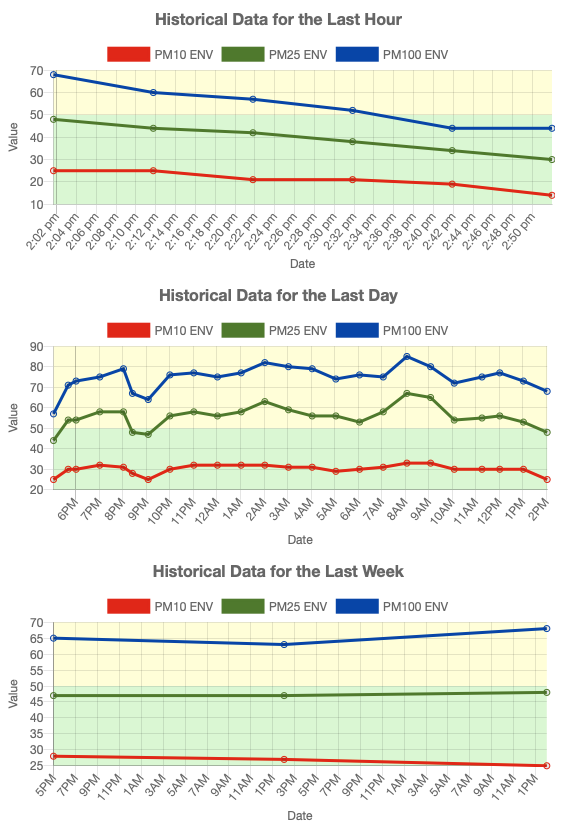
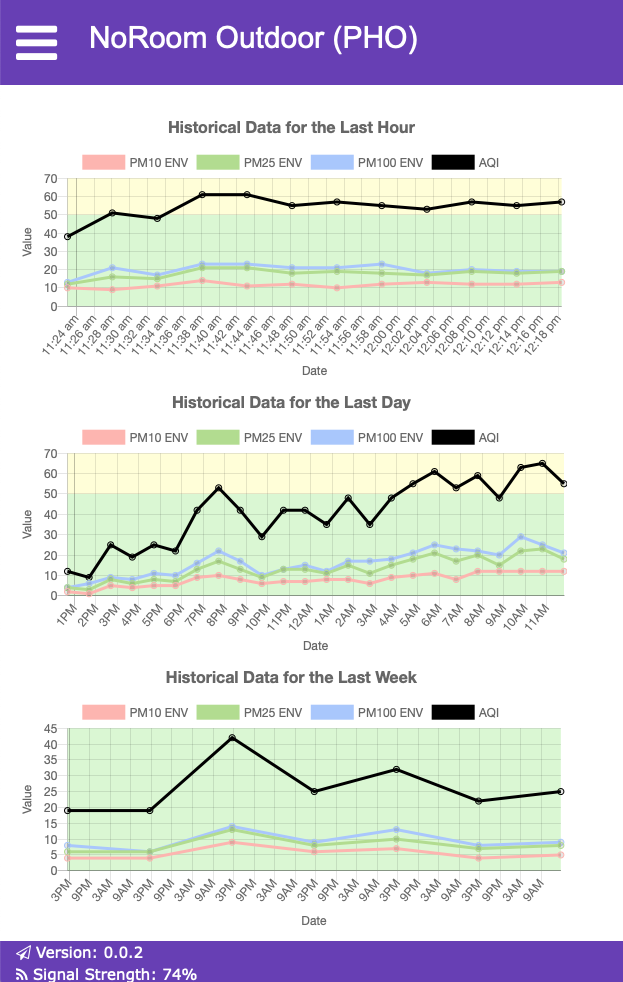
Weekly samples at 12hr intervals. Fix typos. Update Docs.

diff --git a/AQIReader.cpp b/AQIReader.cpp
@@ -145,8 +145,8 @@ uint16_t AQIReader::sizeOfRange(HistoryRange r) {
   switch (r) {
     case Range_1Hour: return readings_5min.size();
     case Range_1Day: return readings_1hr.size();
-    case Range_1Week: return readings_1day.size();
-    case Range_Combined: return readings_5min.size() + readings_1hr.size() + readings_1day.size();
+    case Range_1Week: return readings_12hr.size();
+    case Range_Combined: return readings_5min.size() + readings_1hr.size() + readings_12hr.size();
   }
   return 0; // Assert(CantHappen)
 }
@@ -155,7 +155,7 @@ AQIReadings AQIReader::getFromRange(HistoryRange r, uint16_t index) {
   switch (r) {
     case Range_1Hour: return readings_5min[index];
     case Range_1Day: return readings_1hr[index];
-    case Range_1Week: return readings_1day[index];
+    case Range_1Week: return readings_12hr[index];
     case Range_Combined:
       if (index < readings_5min.size()) return readings_5min[index];
       index -= readings_5min.size();
@@ -163,7 +163,7 @@ AQIReadings AQIReader::getFromRange(HistoryRange r, uint16_t index) {
       index -= readings_1hr.size();
       // Fall out...
   }
-  return readings_1day[index];
+  return readings_12hr[index];
 }
 
 void AQIReader::enterState(State newState) {
@@ -197,8 +197,8 @@ void AQIReader::updateHistoricalData(AQIReadings& newSample) {
     last1hrTimestamp = newSample.timestamp;
     storedNewValue = true;
   }
-  if (newSample.timestamp - last1dayTimestamp >= (24 * 60 * 60L)) {
-    readings_1day.push(newSample);
+  if (newSample.timestamp - last1dayTimestamp >= (12 * 60 * 60L)) {
+    readings_12hr.push(newSample);
     last1dayTimestamp = newSample.timestamp;
     storedNewValue = true;
   }
@@ -269,7 +269,7 @@ void AQIReader::loadHistoricalData(String historyFilePath) {
     data.pm10_env = reading["pm10_env"];
     data.pm25_env = reading["pm25_env"];
     data.pm100_env = reading["pm100_env"];
-    readings_1day.push(data);
+    readings_12hr.push(data);
     if (data.timestamp > last1dayTimestamp) last1dayTimestamp = data.timestamp;
   }
 
@@ -319,12 +319,12 @@ void AQIReader::logData(AQIReadings& data) {
   Log.verbose(F("---------------------------------------"));
   Log.verbose(F("PM 1.0: %d\t\tPM 2.5: %d\t\tPM 10: %d"), data.pm10_env ,data.pm25_env, data.pm100_env);
   Log.verbose(F("---------------------------------------"));
-  Log.verbose(F("Particles > 0.3um / 0.1L air:"), data.particles_03um);
-  Log.verbose(F("Particles > 0.5um / 0.1L air:"), data.particles_05um);
-  Log.verbose(F("Particles > 1.0um / 0.1L air:"), data.particles_10um);
-  Log.verbose(F("Particles > 2.5um / 0.1L air:"), data.particles_25um);
-  Log.verbose(F("Particles > 5.0um / 0.1L air:"), data.particles_50um);
-  Log.verbose(F("Particles > 50 um / 0.1L air:"), data.particles_100um);
+  Log.verbose(F("Particles > 0.3um / 0.1L air: %d"), data.particles_03um);
+  Log.verbose(F("Particles > 0.5um / 0.1L air: %d"), data.particles_05um);
+  Log.verbose(F("Particles > 1.0um / 0.1L air: %d"), data.particles_10um);
+  Log.verbose(F("Particles > 2.5um / 0.1L air: %d"), data.particles_25um);
+  Log.verbose(F("Particles > 5.0um / 0.1L air: %d"), data.particles_50um);
+  Log.verbose(F("Particles > 50 um / 0.1L air: %d"), data.particles_100um);
   Log.verbose(F("---------------------------------------"));
 }
 

diff --git a/AQIReader.h b/AQIReader.h
@@ -60,9 +60,9 @@ private:
   uint32_t last1hrTimestamp = 0;
   uint32_t last1dayTimestamp = 0;
 
-  CircularBuffer<AQIReadings, 60/5> readings_5min; // The last hour's worth of readings at 5 minute intervals
-  CircularBuffer<AQIReadings, 24> readings_1hr; // The last day's worth of readings at 1 hour intervals
-  CircularBuffer<AQIReadings, 7> readings_1day; // The last week's worth of readings at 1 day intervals
+  CircularBuffer<AQIReadings, 12> readings_5min;  // The last hour's worth of readings at 5 minute intervals
+  CircularBuffer<AQIReadings, 24> readings_1hr;   // The last day's worth of readings at 1 hour intervals
+  CircularBuffer<AQIReadings, 14> readings_12hr;  // The last week's worth of readings at 12 hour intervals
 
   void enterState(State);
   void updateHistoricalData(AQIReadings& newSample);

diff --git a/README.md b/README.md
@@ -229,7 +229,13 @@ You're already familiar with the Web UI since you used it to configure *PurpleHa
 <a name="charts"></a>
 ![](doc/images/Charts.png)
 
-The Charts page provides several charts with historical data. In each chart you will see a line for PM10, PM25, and PM100 data. The charts cover three different time frames: the last hour, the last day, and the last week. Hover your mouse over a dot on the chart to see the precise value and time it was recorded. For any of the charts, if you click on the legend of one of the lines, it will toggle that line's visibility in the graph. For example, if you just want to see the PM25 day, click on the legend items for PM10 and PM100 and those lines will disappear. Click them again and they will return.
+The Charts page provides several charts with historical data. In each chart you will see a line for the Air Quality Index, PM10, PM25, and PM100 data. The charts cover three different time frames:
+
+* The last hour, recorded at 5 minute intervals
+* The last day, recorded at 1 hour intervals
+* The last week, recorded at 6 hour intervals
+
+Hover your mouse over a dot on the chart to see the precise value and time it was recorded. For any of the charts, if you click on the legend of one of the lines, it will toggle that line's visibility in the graph. For example, if you just want to see the PM25 line, click on the legend items for PM10 and PM100 and those lines will disappear. Click them again and they will return.
 
 Note that when you first turn on your device, there will be no historical data so the charts won't be very interesting. Over time they will fill up with data.
 
@@ -286,12 +292,12 @@ Finally, the `/dev` page also has a `Request Reboot` button. If you press the bu
 
 During development you may be uploading sketch data from time to time. When you do this, it overwrites the entire SPIFFS file system on the ESP8266. This means any settings that you have customized through the web interface will be wiped out. This gets annoying, but you can work around it in two ways:
 
-1. [Not Recommnded] Change the *PurpleHaze* code and the WebThing library to hard-wire your default settings.
+1. [Not Recommended] Change the *PurpleHaze* code and the WebThing library to hard-wire your default settings.
 2. [Recommended] Configure *PurpleHaze* the way you like it. From the developer menu, click on the `View Settings` button to get your settings as JSON. Save the text into a file named `settings.json` and put it into your data directory. Do the same thing by pressing the `View WebThing Settings` button and save that text into `data/wt/settings.json` From that point forward, any time you upload sketch data, your preferred settings will be uploaded also.
 
 **History**
 
-The monitor itself will keep a relatively small amount of historical data on the device. This data is preserved across reboots or power outages. Specifically, every 10 minutes *PurpleHaze* saves the historical data for the last hour (with readings every 5 minutes), the last day (with readings every hour), and the last week (with readings every day).
+The monitor itself will keep a relatively small amount of historical data on the device. This data is preserved across reboots or power outages. Specifically, every 10 minutes *PurpleHaze* saves the historical data for the last hour (with readings every 5 minutes), the last day (with readings every hour), and the last week (with readings every 12 hours).
 
 Uploading new versions of the code will not overwrite the history, but uploading new data files will. You can preserve your history in similar way as just described for settings. From the developer menu, click on the `View History` button. This will return your history as JSON. Save the text into a file named `history.json` and put it into your data directory. When you upload sketch data, the history will also be uploaded.
 
@@ -301,4 +307,4 @@ You can use the indicator LEDs to help you debug if you are not connected to the
 
 **Rebooting**
 
-When you need to restart the device, it is best to power cycle your ESP8266 and PMS5003 rather than just hitting the reset button. I've noticed situations where the ESP has a hard time resyncing with the sensor after a reset (as opposed to a power-cycle).
+When you need to restart the device, it is best to power cycle your ESP8266 and PMS5003 rather than just hitting the reset button. I've noticed situations where the ESP has a hard time re-syncing with the sensor after a reset (as opposed to a power-cycle).
